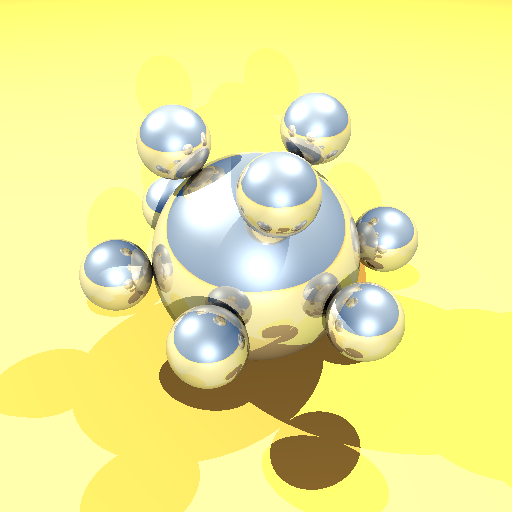
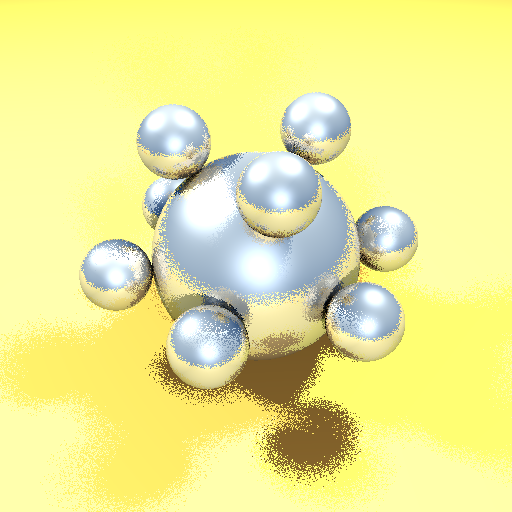
bug fix

Changed region(s): [[0.0, 0.1875, 1.0, 1.0], [0.9688, 0.6562, 1.0, 0.7812]]

diff --git a/P3D_Template/P3D_Template/bvh.cpp b/P3D_Template/P3D_Template/bvh.cpp
@@ -29,7 +29,7 @@ void BVH::Build(vector<Object *> &objs)
 {
 	BVHNode *root = new BVHNode();
 
-	Vector min = Vector(FLT_MAX, FLT_MAX, FLT_MAX), max = Vector(-FLT_MAX, -FLT_MAX, -FLT_MAX);
+	Vector min = Vector(FLT_MAX, FLT_MAX, FLT_MAX), max = Vector(FLT_MIN, FLT_MIN, FLT_MIN);
 	AABB world_bbox = AABB(min, max);
 
 	for (Object* obj : objs) {
@@ -111,14 +111,16 @@ int BVH::getSplitIndex(float midPoint, int largestAxis, int left_index, int righ
 			return i;
 		}
 	}
+	return -1;
 }
 
 AABB BVH::GetNodeBB(int left_index, int right_index)
 {
 	Vector min = Vector(FLT_MAX, FLT_MAX, FLT_MAX), max = Vector(FLT_MIN, FLT_MIN, FLT_MIN);
 	AABB node_bb = AABB(min, max);
-
-	for (int i = left_index; i < right_index; i++) {
+	int start = left_index;
+	int end = right_index;
+	for (int i = start; i < right_index; i++) {
 		AABB bb = objects.at(i)->GetBoundingBox();
 		node_bb.extend(bb);
 	}
@@ -143,7 +145,7 @@ void BVH::build_recursive(int left_index, int right_index, BVHNode *node) {
 		largestAxis = GetLargestAxis(node->getAABB(), midPoint, left_index, right_index);
 		sortByAxis(largestAxis, left_index, right_index);
 		split_index = getSplitIndex(midPoint, largestAxis, left_index, right_index);
-		if (split_index == left_index || split_index == right_index) split_index = round((right_index + left_index) / 2); //make sure that neither left or right is completely empty
+		if (split_index == left_index || split_index == right_index || split_index == -1) split_index = round((right_index + left_index) / 2); //make sure that neither left or right is completely empty
 	//	cout << "split_index:" << split_index << "left_index:" << left_index << "right_index:" << right_index << "\n";
 		//left.makeNode(0);
 		//right.makeNode(split_index);

diff --git a/P3D_Template/P3D_Template/main.cpp b/P3D_Template/P3D_Template/main.cpp
@@ -37,7 +37,7 @@ unsigned int FrameCount = 0;
 
 // Accelerators
 typedef enum {NONE, GRID_ACC, BVH_ACC} Accelerator;
-Accelerator Accel_Struct = NONE;
+Accelerator Accel_Struct = BVH_ACC;
 Grid* grid_ptr;
 BVH* bvh_ptr;
 
@@ -59,16 +59,16 @@ long myTime, timebase = 0, frame = 0;
 char s[32];
 
 //Enable OpenGL drawing.  
-bool drawModeEnabled = true;
+bool drawModeEnabled = false;
 
 //Enable antialiasing
 bool withAntialiasing = false;
 
 //Enable soft shadows
-bool softShadows = false;
+bool softShadows = true;
 
 //Enable fuzzy reflection
-bool fuzzyReflections = false;
+bool fuzzyReflections = true;
 
 bool P3F_scene = true; //choose between P3F scene or a built-in random scene
 float sppSquared = sqrt(SPP);
@@ -107,7 +107,7 @@ void Reflection(Vector& normal, Ray& ray, Vector& actualHitPoint, Vector& hitPoi
 
 bool rayTraverseShadows(int objectN, Object*& currentObj, Ray& ray, float& dist, float lineLength);
 
-bool isPointObstructed(Vector fromPoint, Vector toPoint)
+bool isPointObstructed(Vector& fromPoint, Vector& toPoint)
 {
 	int objectN = scene->getNumObjects();
 	Vector line = toPoint - fromPoint;
